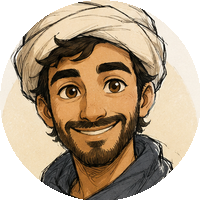
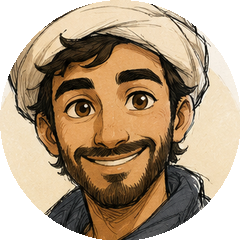
Ali: sugestoes por viagem, respostas curtas e rosto maior
- sugestoes do chat deixam de ser fixas (Central Park/Met/US$) e passam a
  ser montadas a partir da viagem ATIVA: paradas e destino reais, moeda e
  teto da viagem. Sem custo de IA (montadas localmente). Viagem sem dias
  cai em perguntas de planejamento do destino.
- prompt do Ali com regra forte de brevidade: ate 3 frases curtas ou 4
  topicos de uma linha, sem introducao/rodeios; max_tokens 1500 -> 700
- rosto do Ali maior: chat 28->36, dica 32->42, aba 24->28, e recorte do
  asset mais fechado no rosto (turbante preservado)
- App passa moeda/teto/destino da viagem ativa para o chat

diff --git a/frontend/src/components/AliChat.jsx b/frontend/src/components/AliChat.jsx
@@ -1,15 +1,37 @@
-import React, { useState, useRef, useEffect } from "react";
+import React, { useState, useRef, useEffect, useMemo } from "react";
 import AliAvatar from "./AliAvatar";
 import { apiAli } from "../api";
 import { NAVY, STEEL, ORANGE, CREAM, SAND, DISPLAY, HELV } from "../theme";
 
 const WELCOME = "Oi! Sou o Ali 👋 Pode perguntar o que quiser sobre a viagem — o que fazer se chover num dia, onde comer perto de uma parada, como cortar gastos, o que priorizar... tô aqui pra isso.";
 
-const SUGESTOES = [
-  "O que faço se chover no dia do Central Park?",
-  "Onde comer bem e barato perto do Met?",
-  "Consigo cortar US$ 200 do orçamento?",
-];
+// Sugestões montadas a partir da viagem ATIVA (sem custo de IA): usam paradas e
+// destino reais, para nunca sugerirem algo de outra viagem.
+function buildSugestoes(trip, destino, cur) {
+  const dias = (trip && trip.days) || [];
+  const stops = [];
+  dias.forEach((d) => (d.stops || []).forEach((s) => { if (s && s.n) stops.push({ n: s.n, dia: d.title || d.label }); }));
+  const onde = destino ? `em ${destino}` : "nessa viagem";     // evita "em essa viagem"
+  const noDestino = destino ? `em ${destino}` : "no destino";
+  if (stops.length === 0) {
+    return [
+      `O que não posso perder ${onde}?`,
+      `Quanto devo separar por dia ${noDestino}?`,
+      `Como me locomover ${noDestino}?`,
+    ];
+  }
+  const a = stops[0];
+  const b = stops[Math.min(stops.length - 1, Math.floor(stops.length / 2))] || a;
+  const out = [
+    `O que faço se chover no dia ${a.dia ? `de ${a.dia}` : `do ${a.n}`}?`,
+    `Onde comer bem e barato perto do ${b.n}?`,
+  ];
+  const teto = (trip && trip.budgetTotal) || 0;
+  out.push(teto > 0
+    ? `Consigo cortar ${cur} ${Math.max(50, Math.round(teto * 0.1)).toLocaleString()} do orçamento?`
+    : `O que priorizar ${onde} se o tempo for curto?`);
+  return out;
+}
 
 // Prepara o histórico para o backend: sem a mensagem de boas-vindas, começando por 'user'.
 function toHistory(msgs) {
@@ -18,11 +40,12 @@ function toHistory(msgs) {
   return h;
 }
 
-export default function AliChat({ trip }) {
+export default function AliChat({ trip, destino, currency = "US$" }) {
   const [msgs, setMsgs] = useState([{ role: "assistant", content: WELCOME }]);
   const [input, setInput] = useState("");
   const [loading, setLoading] = useState(false);
   const endRef = useRef(null);
+  const SUGESTOES = useMemo(() => buildSugestoes(trip, destino, currency), [trip, destino, currency]);
 
   useEffect(() => { endRef.current && endRef.current.scrollIntoView({ behavior: "smooth" }); }, [msgs, loading]);
 
@@ -54,14 +77,14 @@ export default function AliChat({ trip }) {
             <div key={i} style={{ alignSelf: "flex-end", maxWidth: "82%", background: STEEL, color: "#fff", fontSize: 14.5, lineHeight: 1.5, padding: "10px 14px", borderRadius: "16px 16px 5px 16px", boxShadow: "0 2px 8px rgba(10,22,55,0.18)" }}>{m.content}</div>
           ) : (
             <div key={i} style={{ alignSelf: "flex-start", display: "flex", gap: 8, alignItems: "flex-end", maxWidth: "88%" }}>
-              <AliAvatar size={28} />
+              <AliAvatar size={36} />
               <div style={{ background: "#fff", color: NAVY, fontSize: 14.5, lineHeight: 1.5, padding: "10px 14px", borderRadius: "16px 16px 16px 5px", boxShadow: "0 2px 8px rgba(10,22,55,0.14)" }}>{m.content}</div>
             </div>
           )
         ))}
         {loading && (
           <div style={{ alignSelf: "flex-start", display: "flex", gap: 8, alignItems: "flex-end" }}>
-            <AliAvatar size={28} />
+            <AliAvatar size={36} />
             <div style={{ background: "#fff", color: "#888", fontSize: 13.5, fontStyle: "italic", padding: "10px 14px", borderRadius: "16px 16px 16px 5px", boxShadow: "0 2px 8px rgba(10,22,55,0.14)" }}>Ali está digitando…</div>
           </div>
         )}

diff --git a/frontend/src/App.jsx b/frontend/src/App.jsx
@@ -139,7 +139,11 @@ export default function App() {
   const overallPct = totalStops ? Math.round((totalDone / totalStops) * 100) : 0;
   const planned = budget.reduce((a, b) => a + Number(b.v || 0), 0);
   const spent = budget.reduce((a, b) => a + Number(b.spent || 0), 0);
-  const remaining = TOTAL_BUDGET - planned;
+  // Moeda e teto vêm da viagem (fallback só para bases antigas sem esses campos).
+  const cur = activeMeta.currency || "US$";
+  const budgetTotal = Number(activeMeta.budget) > 0 ? Number(activeMeta.budget) : (trips.active === "ny" ? TOTAL_BUDGET : 0);
+  const hasTeto = budgetTotal > 0;
+  const remaining = budgetTotal - planned;
 
   // Dica do Ali para o dia: a primeira parada com insight vira o "briefing".
   const aliDayTip = (((day && day.stops) || []).find((s) => s.insight && s.insight.trim()) || {}).insight;
@@ -381,7 +385,7 @@ export default function App() {
 
         {/* Body (superfície sólida areia-clara) */}
         <div style={{ flex: 1, minHeight: 0, overflowY: tab === "ali" ? "hidden" : "auto", padding: tab === "ali" ? 0 : "18px 16px 110px", display: tab === "ali" ? "flex" : "block", flexDirection: "column", background: CREAM }}>
-          {tab === "ali" && <AliChat trip={{ days, budget, prebuy, notes }} />}
+          {tab === "ali" && <AliChat trip={{ days, budget, prebuy, notes, budgetTotal }} destino={activeMeta.destination || activeMeta.name} currency={cur} />}
           {!booted && tab !== "ali" && <SkeletonList />}
           {booted && tab === "roteiro" && !day && (
             <div style={{ textAlign: "center", marginTop: 50 }}>
@@ -562,7 +566,7 @@ export default function App() {
           {[
             { id: "roteiro", label: "Roteiro", Icon: MapIcon },
             { id: "orcamento", label: "Orçamento", Icon: MoneyIcon },
-            { id: "ali", label: "Ali", Icon: ({ on }) => <AliAvatar size={24} ring={on ? "#223A5E" : undefined} /> },
+            { id: "ali", label: "Ali", Icon: ({ on }) => <AliAvatar size={28} ring={on ? "#223A5E" : undefined} /> },
             { id: "info", label: "Info", Icon: PinIcon },
           ].map((t) => {
             const on = tab === t.id;

diff --git a/frontend/src/components/AliTip.jsx b/frontend/src/components/AliTip.jsx
@@ -4,7 +4,7 @@ import { SAND, NAVY, CREAM } from "../theme";
 
 // Cartão de dica proativa do Ali. Padrão do Brand Book: avatar + texto num card
 // bege (tom claro) ou marinho (tom "navy"). O laranja fica só no avatar.
-export default function AliTip({ children, tone = "sand", size = 32 }) {
+export default function AliTip({ children, tone = "sand", size = 42 }) {
   const navy = tone === "navy";
   return (
     <div style={{ display: "flex", gap: 12, alignItems: "center", background: navy ? NAVY : SAND, borderRadius: 16, padding: "13px 15px", boxShadow: "0 4px 14px rgba(10,22,55,0.14)" }}>

diff --git a/backend/main.py b/backend/main.py
@@ -48,7 +48,11 @@ ALI_SYSTEM = (
     "Você é o Ali, o assistente de viagens do app VouAli. "
     "Personalidade: amigável, experiente, confiável e curioso — fala como um amigo que já esteve lá. "
     "Seja sempre positivo, prestativo e proativo; quando a resposta for 'não', ofereça uma alternativa. "
-    "Responda SEMPRE em português do Brasil, de forma concisa, prática e direta ao ponto (evite textos longos). "
+    "Responda SEMPRE em português do Brasil. "
+    "SEJA BREVE — esta é uma regra forte: por padrão responda em ATÉ 3 FRASES CURTAS. "
+    "Quando precisar listar, use no máximo 4 tópicos de uma linha cada (com '•'), sem parágrafos antes ou depois. "
+    "Vá direto ao ponto: nada de introdução, de repetir a pergunta, de resumir o que você vai dizer, nem de fechar com perguntas de cortesia. "
+    "Se o assunto for grande, entregue só o essencial e ofereça detalhar em uma frase curta. "
     "Não invente reservas, preços exatos, horários ou paradas que não estejam nos dados; quando não souber, diga e sugira como descobrir. "
     "VOCÊ NÃO ALTERA O APP: você não edita, adiciona, remove, reordena, salva nem reserva nada — não tem esse poder, apenas conversa e orienta. "
     "NUNCA se ofereça para fazer mudanças (nada de 'quer que eu ajuste?', 'quer que eu troque a ordem?', 'quer que eu adicione/reserve pra você?'). "
@@ -400,7 +404,7 @@ async def ali_chat(request: Request):
         return {"error": "empty"}
     today = datetime.now(timezone.utc).strftime("%d/%m/%Y")
     system = ALI_SYSTEM + f"\n\nDATA DE HOJE: {today}.\n\nDados atuais da viagem:\n" + _trip_context(trip)
-    kwargs = {"model": ALI_MODEL, "max_tokens": 1500, "system": system, "messages": conv}
+    kwargs = {"model": ALI_MODEL, "max_tokens": 700, "system": system, "messages": conv}
     if _ALI_EFFORT_OK:
         kwargs["output_config"] = {"effort": "low"}
     try:
